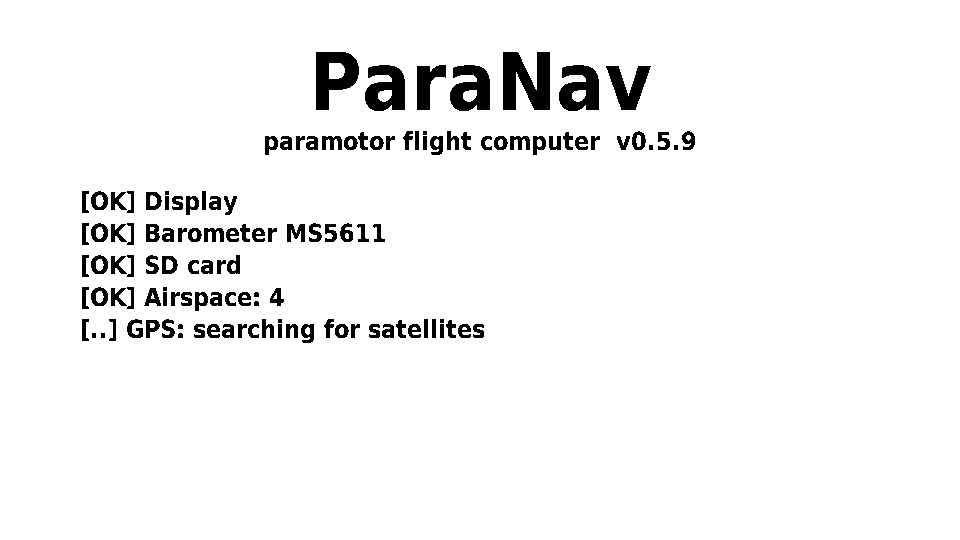
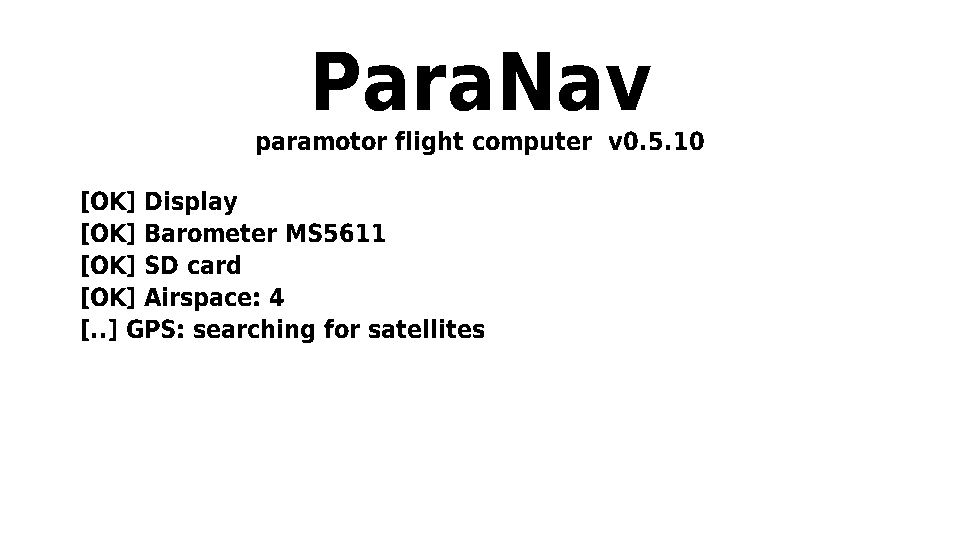
Version 0.5.10: FL95 altitude limit as a setting
Menu > Alarms > Max altitude FL (maxFl, default 95, 0 = none), converted with
the current QNH. Airspace exit: no climb that ends within 30 m of the limit
("above FL95" shown instead). Route check: flying height capped at the limit.
Tests, layout check, help, README (PL/EN), release notes.

Claude-Session: https://claude.ai/code/session_011XfKyVFqAwC65NqrcskPcU

Changed region(s): [[0.25, 0.237, 0.75, 0.2963]]

diff --git a/lib/navcore/src/ui/screens.cpp b/lib/navcore/src/ui/screens.cpp
@@ -1832,7 +1832,13 @@ void drawEscape(Canvas& c, const UiContext& u) {
     auto alt = [&](const nav::EscapeOption& x, const char* name, const std::string& what) {
         bool best = o.valid && x.valid && x.kind == o.kind;
         c.text(494, y, std::string(best ? "► " : "   ") + name, font_sb, BLACK);
-        c.text(W - 18, y, x.valid ? what + "  " + fmtMinSec(x.timeS) : TR("niemożliwe", "not possible"), font_sb, BLACK, RIGHT);
+        std::string no = TR("niemożliwe", "not possible");
+        if (x.overLimit && u.set && u.set->maxFl > 0) {
+            char lb[40];
+            std::snprintf(lb, sizeof lb, TR("ponad FL%d", "above FL%d"), u.set->maxFl);
+            no = lb;
+        }
+        c.text(W - 18, y, x.valid ? what + "  " + fmtMinSec(x.timeS) : no, font_sb, BLACK, RIGHT);
         y += 34;
     };
     alt(e->horiz, TR("w poziomie", "level"), fmtDistKm(e->horiz.distM) + " km");
@@ -1849,17 +1855,24 @@ void drawRouteCheck(Canvas& c, const UiContext& u, const std::string& routeName,
     drawStatusBar(c, SCR_NAV, u, TR("TRASA", "ROUTE"));
     int nConf = 0;
     for (auto& r : list) nConf += r.conflict;
-    char b[96];
+    char b[120];
+    std::string flTxt;
+    if (u.set->maxFl > 0) {
+        char t[24];
+        std::snprintf(t, sizeof t, TR(" i FL%d", " and FL%d"), u.set->maxFl);
+        flTxt = t;
+    }
     if (nConf) {
         c.fillRoundRect(4, 44, W - 8, 92, kCardR + 6, BLACK);
         std::snprintf(b, sizeof b, TR("TRASA PRZECINA STREFY: %d", "ROUTE CROSSES AIRSPACE: %d"), nConf);
         c.text(W / 2, 88, b, font_l, WHITE, CENTER);
-        std::snprintf(b, sizeof b, TR("poniżej %d m nad terenem – sprawdź przed lotem", "below %d m AGL – check before the flight"), (int)u.set->routeCheckAglM);
+        std::snprintf(b, sizeof b, TR("poniżej %d m nad terenem%s – sprawdź przed lotem", "below %d m AGL%s – check before the flight"), (int)u.set->routeCheckAglM,
+                      flTxt.c_str());
         c.text(W / 2, 122, b, font_sb, WHITE, CENTER);
     } else {
         card(c, 4, 44, W - 5, 135);
         c.text(W / 2, 88, TR("✓ Trasa nie przecina stref", "✓ Route clear of airspace"), font_l, BLACK, CENTER);
-        std::snprintf(b, sizeof b, TR("poniżej %d m nad terenem", "below %d m AGL"), (int)u.set->routeCheckAglM);
+        std::snprintf(b, sizeof b, TR("poniżej %d m nad terenem%s", "below %d m AGL%s"), (int)u.set->routeCheckAglM, flTxt.c_str());
         c.text(W / 2, 122, b, font_sb, BLACK, CENTER);
     }
     card(c, 4, 142, W - 5, H - 5);

diff --git a/lib/navcore/src/escape.cpp b/lib/navcore/src/escape.cpp
@@ -18,6 +18,14 @@ bool usable(const AirspaceDb& db, const Airspace& a, const EscapeQuery& q, const
 }
 }  // namespace
 
+float maxAltitudeMsl(int fl, float qnhHpa) {
+    if (fl <= 0) return NAN;
+    AltLimit l;
+    l.ref = AltLimit::FL;
+    l.value = (float)fl;
+    return l.toMsl(NAN, qnhHpa);
+}
+
 EscapeResult planEscape(const AirspaceDb& db, const EscapeQuery& q, const Settings* filter) {
     EscapeResult r;
     const auto& zones = db.zones();
@@ -135,6 +143,13 @@ EscapeResult planEscape(const AirspaceDb& db, const EscapeQuery& q, const Settin
             if (top > 15000) { ok = false; break; }  // unlimited ceiling
             alt = top + kVertMarginM;
         }
+        // never above the altitude limit (e.g. FL95): the target plus the margin must stay below it
+        if (ok && alt > q.altMsl && !std::isnan(q.maxAltMsl) && alt > q.maxAltMsl - kVertMarginM) {
+            ok = false;
+            r.up.overLimit = true;
+            r.up.targetAlt = alt;
+            r.up.dAltM = alt - q.altMsl;
+        }
         if (ok && alt > q.altMsl) {
             r.up.valid = true;
             r.up.kind = EscapeOption::Up;
@@ -172,7 +187,7 @@ EscapeResult planEscape(const AirspaceDb& db, const EscapeQuery& q, const Settin
 
 std::vector<RouteConflict> checkRoute(const AirspaceDb& db, const std::vector<LatLon>& path, const Settings* filter,
                                       uint32_t utcSec, uint32_t dateYmd, float qnhHpa, float maxAglM,
-                                      const std::function<float(double, double)>& ground) {
+                                      const std::function<float(double, double)>& ground, float maxMslM) {
     std::vector<RouteConflict> out;
     const auto& zones = db.zones();
     std::vector<bool> seen(zones.size(), false);
@@ -201,7 +216,9 @@ std::vector<RouteConflict> checkRoute(const AirspaceDb& db, const std::vector<La
                 c.floorAglM = z.lower.toMsl(g, qnhHpa) - gm;
                 if (z.lower.ref == AltLimit::GND) c.floorAglM = 0;
                 c.act = db.activationNow(z, utcSec, dateYmd);
-                c.conflict = c.act != Activation::Inactive && c.floorAglM < maxAglM;
+                float checkAgl = maxAglM;
+                if (!std::isnan(maxMslM)) checkAgl = std::min(checkAgl, maxMslM - gm);  // not above the altitude limit
+                c.conflict = c.act != Activation::Inactive && c.floorAglM < checkAgl;
                 out.push_back(c);
                 seen[zi] = true;
                 break;

diff --git a/lib/navcore/src/ui/help.cpp b/lib/navcore/src/ui/help.cpp
@@ -182,8 +182,12 @@ static const std::vector<HelpTopic> kTopicsPl = {
      "10 s po opuszczeniu strefy ekran sam się zamyka. Zamknięcie ręczne: przytrzymaj KLAWISZ. Bez alarmu: Menu > "
      "Nawigacja > Wyprowadź ze strefy.\n"
      "Wznoszenie i opadanie do obliczeń: Menu > Alarmy (domyślnie 1,5 i 2 m/s).\n"
+     "Limit wysokości: Menu > Alarmy > Maks. wysokość FL (domyślnie FL95, 0 = bez limitu). Wyjście w górę jest "
+     "proponowane tylko wtedy, gdy kończy się co najmniej 30 m poniżej limitu – inaczej przy \"w górę\" widać "
+     "\"ponad FL95\". Limit jest liczony z aktualnego QNH.\n"
      "Kontrola trasy: po wybraniu trasy (w urządzeniu lub z telefonu) ParaNav sprawdza, czy przecina strefy z "
-     "podstawą poniżej wysokości lotu z Menu > Alarmy (domyślnie 1000 m nad terenem) i pokazuje listę. "
+     "podstawą poniżej wysokości lotu z Menu > Alarmy (domyślnie 1000 m nad terenem, nie wyżej niż limit FL) "
+     "i pokazuje listę. "
      "Ponownie: Menu > Nawigacja > Sprawdź trasę."},
 
     {"Barometr i BlueFly",
@@ -439,8 +443,12 @@ static const std::vector<HelpTopic> kTopicsEn = {
      "The screen closes 10 s after you are out. Close it by hand: hold KEY. Without the alert: Menu > Navigation "
      "> Lead me out of airspace.\n"
      "Climb and sink rates used: Menu > Alarms (default 1.5 and 2 m/s).\n"
+     "Altitude limit: Menu > Alarms > Max altitude FL (default FL95, 0 = no limit). Climbing out is offered only "
+     "when it ends at least 30 m below the limit – otherwise \"up\" shows \"above FL95\". The limit follows the "
+     "current QNH.\n"
      "Route check: when a route is chosen (on the device or from the phone), ParaNav checks whether it crosses "
-     "zones with a floor below the flying height set in Menu > Alarms (default 1000 m AGL) and lists them. "
+     "zones with a floor below the flying height set in Menu > Alarms (default 1000 m AGL, never above the FL "
+     "limit) and lists them. "
      "Again: Menu > Navigation > Check route."},
 
     {"Barometer and BlueFly",

diff --git a/test/host_tests.cpp b/test/host_tests.cpp
@@ -901,6 +901,39 @@ static void testEscape() {
     }
     rc = checkRoute(db, path, &set, 0, 0, 1013.25f, 500.f, [](double, double) { return 100.f; });
     CHECK(rc.size() == 2 && rc[0].conflict && !rc[1].conflict);
+
+    // altitude limit (FL95 by default): FL -> AMSL at the current QNH
+    CHECK(set.maxFl == 95);
+    NEAR(maxAltitudeMsl(95, 1013.25f), 2895.6, 0.5);
+    NEAR(maxAltitudeMsl(95, 1000.f), 2895.6 - 13.25 * 8.3, 0.5);
+    CHECK(std::isnan(maxAltitudeMsl(0, 1013.25f)));
+    // FL95 does not touch the climb above SQUARE (1030 m)
+    q.lat = 52.05; q.lon = 21.05; q.altMsl = 950; q.groundMsl = 100;
+    q.maxAltMsl = maxAltitudeMsl(95, 1013.25f);
+    r = planEscape(db, q, &set);
+    CHECK(r.up.valid && !r.up.overLimit && r.best.kind == EscapeOption::Up);
+    // a limit just at the zone top (2000 m): climbing above P would end above it -> not offered
+    q.lon = 21.12;
+    q.maxAltMsl = 2000;
+    r = planEscape(db, q, &set);
+    CHECK(!r.up.valid && r.up.overLimit && r.best.valid && r.best.kind != EscapeOption::Up);
+    q.maxAltMsl = 2031;  // margin: the target (2030) must stay 30 m below the limit
+    r = planEscape(db, q, &set);
+    CHECK(!r.up.valid && r.up.overLimit);
+    q.maxAltMsl = 2061;
+    r = planEscape(db, q, &set);
+    CHECK(r.up.valid && !r.up.overLimit);
+    // route check: flying "up to 1000 m AGL" but the limit is 900 m AMSL (800 m AGL): ABOVE (floor 900 m AGL) is no conflict
+    rc = checkRoute(db, path, &set, 0, 0, 1013.25f, 1000.f, [](double, double) { return 100.f; }, 900.f);
+    CHECK(rc.size() == 2 && rc[0].conflict && !rc[1].conflict);
+    // settings: the limit is stored in config.ini
+    {
+        Settings a;
+        a.maxFl = 65;
+        CHECK(a.save("/tmp/paranav_fl.ini"));
+        Settings b2;
+        CHECK(b2.load("/tmp/paranav_fl.ini") && b2.maxFl == 65);
+    }
 }
 
 int main() {

diff --git a/lib/navcore/src/escape.h b/lib/navcore/src/escape.h
@@ -31,7 +31,11 @@ struct EscapeQuery {
     float turnDegS = 12;     // turn rate for the turn-time estimate
     uint32_t utcSec = 0, dateYmd = 0;
     float maxRangeM = 30000; // horizontal search distance
+    float maxAltMsl = NAN;   // highest altitude you may fly, AMSL (NAN = no limit); see maxAltitudeMsl()
 };
+
+// Altitude limit (flight level, e.g. 95) as metres AMSL at the current QNH; NAN when fl <= 0.
+float maxAltitudeMsl(int fl, float qnhHpa);
 
 struct EscapeOption {
     enum Kind : uint8_t { Horizontal, Up, Down } kind = Horizontal;
@@ -41,6 +45,7 @@ struct EscapeOption {
     float targetAlt = 0;   // Up / Down: altitude AMSL to reach
     float dAltM = 0;       // Up / Down: altitude change (+ up, - down)
     float timeS = 0;       // estimate
+    bool overLimit = false;  // Up: not offered because it would end above the altitude limit
 };
 
 struct EscapeResult {
@@ -63,9 +68,10 @@ struct RouteConflict {
 };
 
 // Zones crossed by the route polyline (each zone once, ordered along the route). ground(lat, lon)
-// gives the terrain elevation (may return NAN). maxAglM = planned maximum height above ground.
+// gives the terrain elevation (may return NAN). maxAglM = planned maximum height above ground,
+// capped at maxMslM (the altitude limit AMSL, NAN = none).
 std::vector<RouteConflict> checkRoute(const AirspaceDb& db, const std::vector<LatLon>& path, const Settings* filter,
                                       uint32_t utcSec, uint32_t dateYmd, float qnhHpa, float maxAglM,
-                                      const std::function<float(double, double)>& ground);
+                                      const std::function<float(double, double)>& ground, float maxMslM = NAN);
 
 }  // namespace nav

diff --git a/src/main.cpp b/src/main.cpp
@@ -362,6 +362,7 @@ static void updateEscape() {
     q.sinkMs = settings.escSinkMs;
     q.utcSec = n.utcSec;
     q.dateYmd = n.dateYmd;
+    q.maxAltMsl = nav::maxAltitudeMsl(settings.maxFl, settings.qnhHpa);
     escapeRes = planEscape(airspace, q, &settings);
 }
 
@@ -379,7 +380,8 @@ static int checkActiveRoute(bool show) {
     for (const auto& w : route.pts) path.push_back({w.lat, w.lon});
     const NavState& n = fc.state();
     routeCheck = nav::checkRoute(airspace, path, &settings, n.utcSec, n.dateYmd, settings.qnhHpa, settings.routeCheckAglM,
-                                 [](double la, double lo) { return terrain.elevation(la, lo); });
+                                 [](double la, double lo) { return terrain.elevation(la, lo); },
+                                 nav::maxAltitudeMsl(settings.maxFl, settings.qnhHpa));
     int c = 0;
     for (auto& r : routeCheck) c += r.conflict;
     crumb(std::string(TR("kontrola trasy: kolizje ", "route check: conflicts ")) + std::to_string(c));
@@ -672,6 +674,8 @@ __attribute__((noinline)) static ui::MenuItem menuAlarms() {
                             [](float v) { settings.escSinkMs = v; }, 0.5f, 5, 0.5f, 1, "m/s"));
     alarms.push_back(M::num(TR("Kontrola trasy: lot do", "Route check: flying up to"), [] { return settings.routeCheckAglM; },
                             [](float v) { settings.routeCheckAglM = v; }, 100, 3000, 100, 0, TR("m n.t.", "m AGL")));
+    alarms.push_back(M::num(TR("Maks. wysokość FL (0=bez)", "Max altitude FL (0=none)"), [] { return (float)settings.maxFl; },
+                            [](float v) { settings.maxFl = (int)v; }, 0, 195, 5, 0, ""));
     return M::sub(TR("Alarmy", "Alarms"), std::move(alarms));
 }
 

diff --git a/tools/preview/layout_check.cpp b/tools/preview/layout_check.cpp
@@ -245,13 +245,14 @@ static void render(World& w, const std::string& name) {
         e.horiz = {EscapeOption::Horizontal, true, 247, 12345, 0, 0, 5999};
         e.up = {EscapeOption::Up, true, 0, 0, 9999, 8888, 5999};
         e.down = {EscapeOption::Down, false, 0, 0, 0, 0, 0};
-        const char* nm[4] = {"h", "up", "down", "out"};
-        for (int k = 0; k < 4; k++) {
+        const char* nm[5] = {"h", "up", "down", "out", "fl"};
+        for (int k = 0; k < 5; k++) {
             EscapeResult x = e;
             if (k == 0) x.best = x.horiz;
             if (k == 1) x.best = x.up;
             if (k == 2) { x.down = {EscapeOption::Down, true, 0, 0, 120, -9999, 5999}; x.best = x.down; }
             if (k == 3) x.inside = false;
+            if (k == 4) { x.up.valid = false; x.up.overLimit = true; x.best = x.horiz; }  // climbing would end above FL95
             u.escape = &x;
             boxes.clear();
             ui::drawEscape(c, u);

diff --git a/lib/navcore/src/settings.h b/lib/navcore/src/settings.h
@@ -35,6 +35,7 @@ struct Settings {
     float escClimbMs = 1.5f;      // airspace exit: climb rate you can hold [m/s]
     float escSinkMs = 2.0f;       // airspace exit: sink rate you are willing to fly [m/s]
     float routeCheckAglM = 1000.f;  // route check: zones with a floor below this height AGL count as conflicts
+    int maxFl = 95;               // highest flight level you may fly (Poland: FL95); 0 = no limit
     int battWarnPct = 20;
     bool varioSound = false;      // no buzzer in v1 hardware
 

diff --git a/lib/navcore/src/settings.cpp b/lib/navcore/src/settings.cpp
@@ -38,6 +38,7 @@ bool toBool(const std::string& v) { return v == "1" || v == "true" || v == "yes"
     X(escClimbMs, FLT)                      \
     X(escSinkMs, FLT)                       \
     X(routeCheckAglM, FLT)                  \
+    X(maxFl, INT)                           \
     X(battWarnPct, INT)                     \
     X(varioSound, BOOL)                     \
     X(tzOffsetMin, INT)                     \

diff --git a/src/config.h b/src/config.h
@@ -2,7 +2,7 @@
 // Source: LilyGO repo docs/pinmap.md (schematic V1.0 24-12-24).
 #pragma once
 
-#define PARANAV_VERSION "0.5.9"
+#define PARANAV_VERSION "0.5.10"
 
 // Shared I2C bus (PCA9535, PCF8563, BQ27220, GT911, TPS65185, BQ25896 and the external MS5611 via QWIIC)
 #define PIN_I2C_SDA 39

diff --git a/README.pl.md b/README.pl.md
@@ -164,7 +164,7 @@ Gdy wlecisz w aktywną strefę (te same strefy, które dają alarm W STREFIE –
 
 Porównywane są trzy drogi, wybierana najszybsza:
 * **w poziomie** – kierunki co 5°; dla każdego odległość do wolnej przestrzeni (przez sąsiadujące strefy, + 150 m zapasu), czas = zakręt (12°/s) + lot z prędkością max(GS, przelotowa),
-* **w górę** – ponad pułap wszystkich stref nad Tobą (także strefy leżącej wyżej) + 30 m, ze wznoszeniem z Menu → Alarmy (domyślnie 1,5 m/s),
+* **w górę** – ponad pułap wszystkich stref nad Tobą (także strefy leżącej wyżej) + 30 m, ze wznoszeniem z Menu → Alarmy (domyślnie 1,5 m/s); tylko gdy wysokość docelowa jest co najmniej 30 m poniżej **limitu wysokości** (Menu → Alarmy → *Maks. wysokość FL*, domyślnie **FL95** – górna granica lotów paralotnią w Polsce, 0 = bez limitu; przeliczany z aktualnego QNH). Strefa kończąca się na FL95 albo wyżej nie daje wyjścia w górę – na ekranie przy „w górę” widać „ponad FL95”,
 * **w dół** – pod podstawę − 30 m, z opadaniem z Menu → Alarmy (domyślnie 2 m/s); niedostępne, gdy strefa zaczyna się od ziemi albo trzeba by zejść niżej niż 60 m nad teren.
 
 Ekran: strzałka względem Twojego kursu (albo duża strzałka WZNOŚ SIĘ / ZNIŻAJ SIĘ z wysokością docelową), nazwa strefy i czasy wszystkich trzech możliwości. Plan liczony jest co sekundę; 10 s po wyjściu ekran sam się zamyka (ręcznie: przytrzymaj KLAWISZ). Bez alarmu: Menu → Nawigacja → *Wyprowadź ze strefy*.
@@ -173,7 +173,7 @@ Ekran: strzałka względem Twojego kursu (albo duża strzałka WZNOŚ SIĘ / ZNI
 |:---:|:---:|:---:|
 | <img src="docs/screens/pl/Z_alarm_w_strefie.png" width="100%" alt="Alarm W STREFIE"> | <img src="docs/screens/pl/X_wyjscie_poziom.png" width="100%" alt="WYJŚCIE – w poziomie"> | <img src="docs/screens/pl/X_wyjscie_gora.png" width="100%" alt="WYJŚCIE – w górę"> |
 
-**Kontrola trasy:** po wybraniu trasy w Menu → Nawigacja → Wybierz trasę albo po aktywacji z telefonu ParaNav sprawdza, które strefy trasa przecina (próbka co 100 m), z teren pod trasą i dzisiejszym planem aktywności. Kolizja = strefa nie-nieaktywna z podstawą poniżej wysokości z Menu → Alarmy → *Kontrola trasy: lot do* (domyślnie 1000 m nad terenem). Lista pokazuje się na ekranie; aplikacja dostaje liczbę kolizji i ją wyświetla. Aplikacja sama sprawdza trasę już przed wysłaniem (na strefach wczytanych na mapę, bez terenu i planu AUP – ostrożniej). Ponownie: Menu → Nawigacja → *Sprawdź trasę – strefy*.
+**Kontrola trasy:** po wybraniu trasy w Menu → Nawigacja → Wybierz trasę albo po aktywacji z telefonu ParaNav sprawdza, które strefy trasa przecina (próbka co 100 m), z teren pod trasą i dzisiejszym planem aktywności. Kolizja = strefa nie-nieaktywna z podstawą poniżej wysokości z Menu → Alarmy → *Kontrola trasy: lot do* (domyślnie 1000 m nad terenem, ale nie wyżej niż limit FL). Lista pokazuje się na ekranie; aplikacja dostaje liczbę kolizji i ją wyświetla. Aplikacja sama sprawdza trasę już przed wysłaniem (na strefach wczytanych na mapę, bez terenu i planu AUP – ostrożniej). Ponownie: Menu → Nawigacja → *Sprawdź trasę – strefy*.
 
 <p align="center"><img src="docs/screens/pl/Y_kontrola_trasy.png" width="60%" alt="Kontrola trasy – strefy przecinane przez trasę"><br><sub>Kontrola trasy – strefy przecinane przez trasę</sub></p>
 
@@ -382,6 +382,9 @@ Po **3 awariach z rzędu**, każdej w ciągu 2 minut od startu, ParaNav uruchami
 ## Historia wersji
 
 Najnowsze na górze. Daty to dni, w których powstały paczki z kodem (2026). Numer firmware jest w `src/config.h`, aplikacji – w `android/app/build.gradle`. Od 0.5.8 gotowe pliki są w zakładce **Releases**.
+
+### 0.5.10 – 23.11
+* **Limit wysokości FL95** jako ustawienie (Menu → Alarmy → *Maks. wysokość FL*, `maxFl` w `config.ini`, 0 = bez limitu): wyjście ze strefy nie proponuje już wznoszenia ponad limit (np. nad strefę kończącą się na FL95), kontrola trasy nie liczy wysokości lotu powyżej limitu.
 
 ### 0.5.9 – 22.11
 * Mapa TOPO: uproszczony widok z daleka (z10–z11) – bez lasów, tylko miasta, główne drogi, linie od 220 kV, farmy wiatrowe jako jeden znak z liczbą wiatraków. Wymaga ponownego wygenerowania map.

diff --git a/README.md b/README.md
@@ -164,7 +164,7 @@ When you enter active airspace (the zones that raise the INSIDE alert – ignore
 
 Three ways are compared and the fastest one is shown:
 * **level** – directions every 5°; for each, the distance to free airspace (through neighbouring zones, + 150 m margin); time = turn (12°/s) + flight at max(GS, cruise speed),
-* **up** – above the ceiling of every zone above you (including a zone stacked on top) + 30 m, at the climb rate from Menu → Alarms (default 1.5 m/s),
+* **up** – above the ceiling of every zone above you (including a zone stacked on top) + 30 m, at the climb rate from Menu → Alarms (default 1.5 m/s); only when the target altitude is at least 30 m below the **altitude limit** (Menu → Alarms → *Max altitude FL*, default **FL95** – the upper limit for paragliders in Poland, 0 = no limit; follows the current QNH). A zone ending at FL95 or higher gives no way out upwards – "up" shows "above FL95",
 * **down** – below the floor − 30 m at the sink rate from Menu → Alarms (default 2 m/s); not offered when the zone starts at the ground or it would take you lower than 60 m above the terrain.
 
 Screen: an arrow relative to your track (or a big CLIMB / DESCEND arrow with the target altitude), the zone name and the times of all three options. The plan is recomputed every second; the screen closes 10 s after you are out (by hand: hold KEY). Without the alert: Menu → Navigation → *Lead me out of airspace*.
@@ -173,7 +173,7 @@ Screen: an arrow relative to your track (or a big CLIMB / DESCEND arrow with the
 |:---:|:---:|:---:|
 | <img src="docs/screens/en/Z_alert_inside.png" width="100%" alt="INSIDE alert"> | <img src="docs/screens/en/X_exit_level.png" width="100%" alt="EXIT – horizontal"> | <img src="docs/screens/en/X_exit_up.png" width="100%" alt="EXIT – climb"> |
 
-**Route check:** after choosing a route in Menu → Navigation → Choose route, or activating it from the phone, ParaNav checks which zones the route crosses (a sample every 100 m), using the terrain below the route and today's activation schedule. A conflict = a zone not known to be inactive with its floor below the height in Menu → Alarms → *Route check: flying up to* (default 1000 m AGL). The list is shown on the screen; the app receives the number of conflicts and shows it. The app also checks the route itself before sending (against the zones loaded on its map, without terrain and AUP – more cautious). Again: Menu → Navigation → *Check route – airspace*.
+**Route check:** after choosing a route in Menu → Navigation → Choose route, or activating it from the phone, ParaNav checks which zones the route crosses (a sample every 100 m), using the terrain below the route and today's activation schedule. A conflict = a zone not known to be inactive with its floor below the height in Menu → Alarms → *Route check: flying up to* (default 1000 m AGL, but never above the FL limit). The list is shown on the screen; the app receives the number of conflicts and shows it. The app also checks the route itself before sending (against the zones loaded on its map, without terrain and AUP – more cautious). Again: Menu → Navigation → *Check route – airspace*.
 
 <p align="center"><img src="docs/screens/en/Y_route_check.png" width="60%" alt="Route check – zones crossed by the route"><br><sub>Route check – zones crossed by the route</sub></p>
 
@@ -382,6 +382,9 @@ After **3 crashes in a row** within 2 minutes of starting, ParaNav starts in **s
 ## Version history
 
 Newest first. Dates are the days the code packages were made (2026). The firmware number is in `src/config.h`, the app's in `android/app/build.gradle`. From 0.5.8 on, ready-made files are in **Releases**.
+
+### 0.5.10 – 23 Nov
+* **FL95 altitude limit** as a setting (Menu → Alarms → *Max altitude FL*, `maxFl` in `config.ini`, 0 = no limit): the airspace exit no longer offers climbing above the limit (e.g. over a zone ending at FL95), the route check never counts a flying height above the limit.
 
 ### 0.5.9 – 22 Nov
 * TOPO map: simplified far view (z10–z11) – no forest, towns only, main roads, power lines from 220 kV, wind farms as one symbol with the number of turbines. Requires regenerating the maps.
